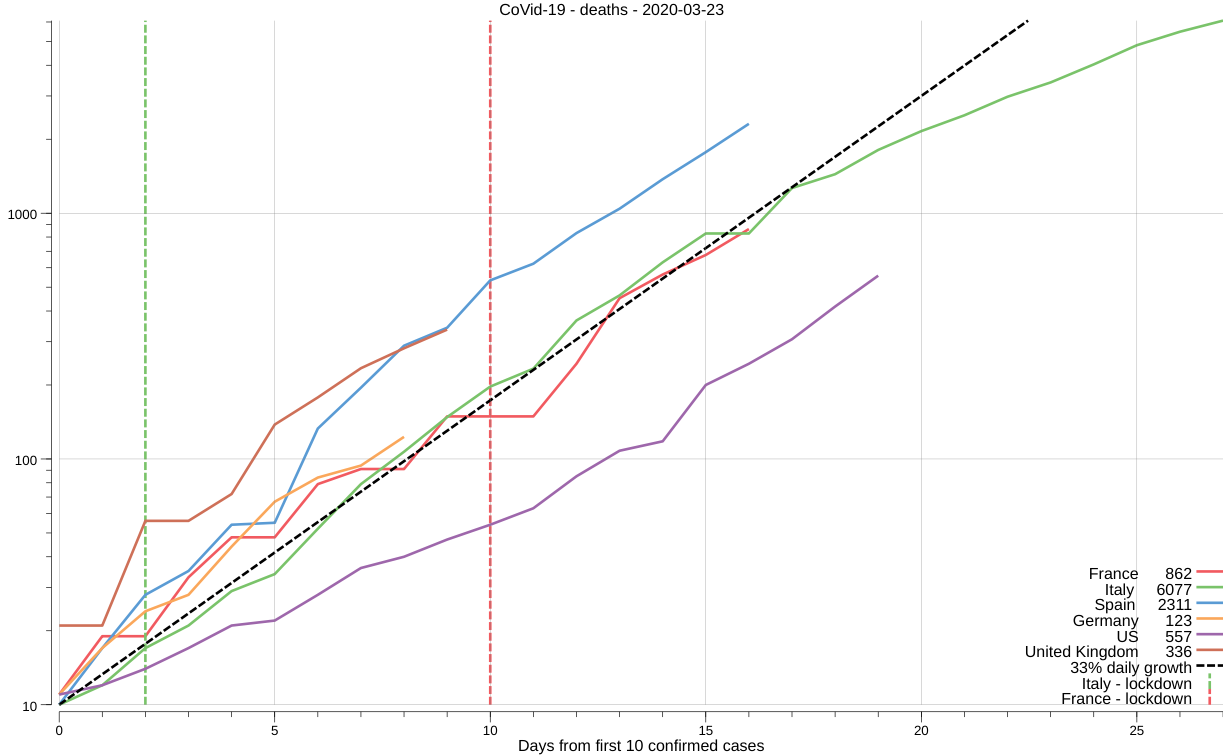
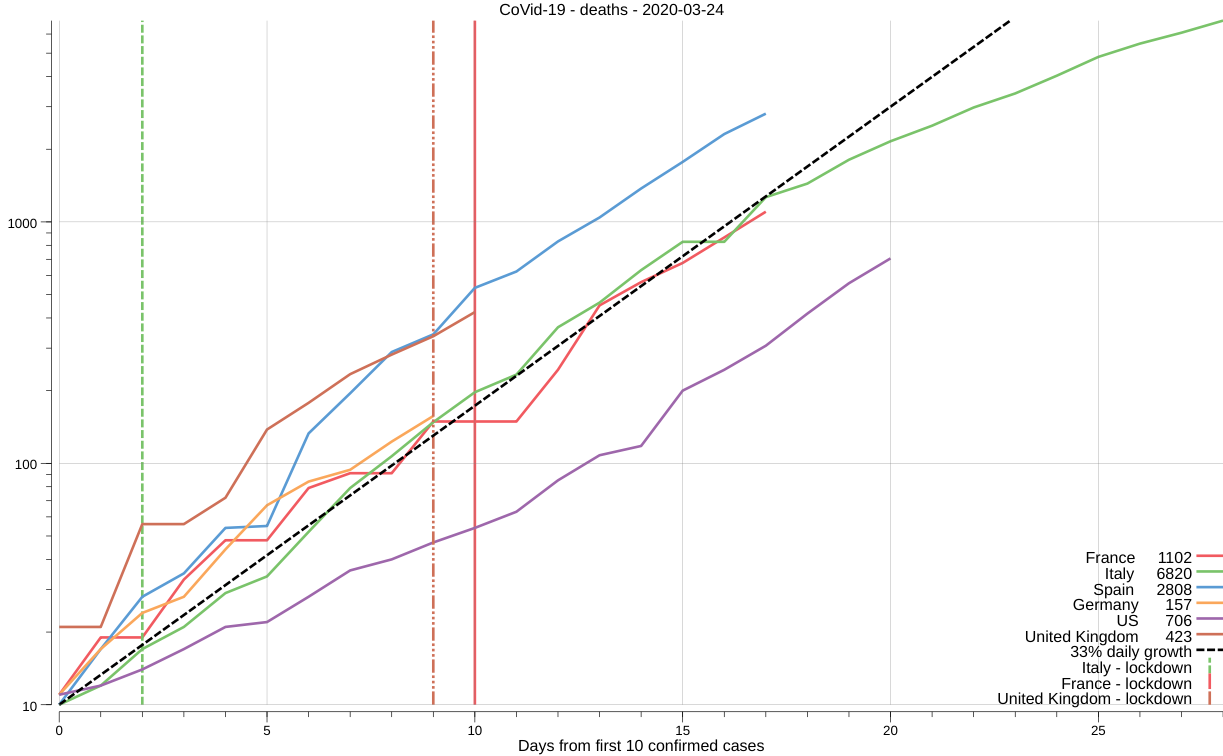
all: display UK lockdown vline

diff --git a/main.go b/main.go
@@ -123,7 +123,7 @@ func genImage(title string, cutoff float64) (image.Image, error) {
 			lx := lockdown.Sub(beg).Hours() / 24
 			vline := hplot.VLine(lx, nil, nil)
 			vline.Line.Color = line.Color
-			vline.Line.Dashes = plotutil.Dashes(1)
+			vline.Line.Dashes = plotutil.Dashes(i)
 			vline.Line.Width = 2
 			p.Add(vline)
 			legends[name] = vline
@@ -137,7 +137,7 @@ func genImage(title string, cutoff float64) (image.Image, error) {
 	fct.LineStyle.Dashes = plotutil.Dashes(1)
 	p.Add(fct)
 	p.Legend.Add("33% daily growth", fct)
-	for _, name := range []string{"Italy", "France"} {
+	for _, name := range []string{"Italy", "France", "United Kingdom"} {
 		p.Legend.Add(fmt.Sprintf("%s - lockdown", name), legends[name])
 	}
 	p.Add(hplot.NewGrid())
@@ -262,9 +262,9 @@ func cleanup(title string, ds *Dataset) {
 
 var (
 	lockDB = map[string]time.Time{
-		"Italy":  time.Date(2020, 2, 27, 0, 0, 0, 0, time.UTC), // lockdown of northern regions
-		"France": time.Date(2020, 3, 17, 0, 0, 0, 0, time.UTC),
-		"UK": time.Date(2020, 3, 23, 0, 0, 0, 0, time.UTC),
+		"Italy":          time.Date(2020, 2, 27, 0, 0, 0, 0, time.UTC), // lockdown of northern regions
+		"France":         time.Date(2020, 3, 17, 0, 0, 0, 0, time.UTC),
+		"United Kingdom": time.Date(2020, 3, 23, 0, 0, 0, 0, time.UTC),
 	}
 )
 
